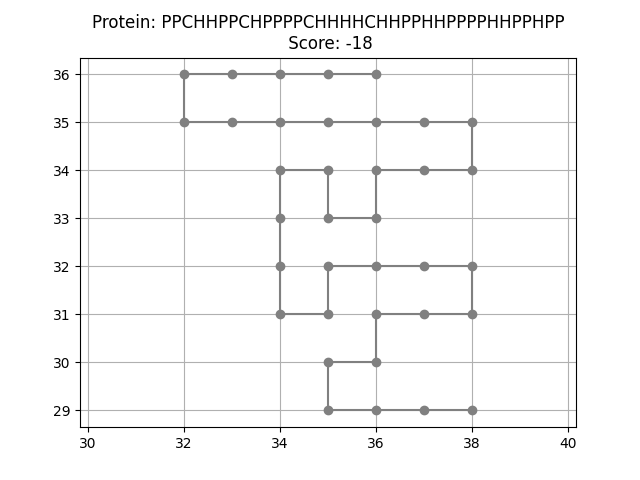
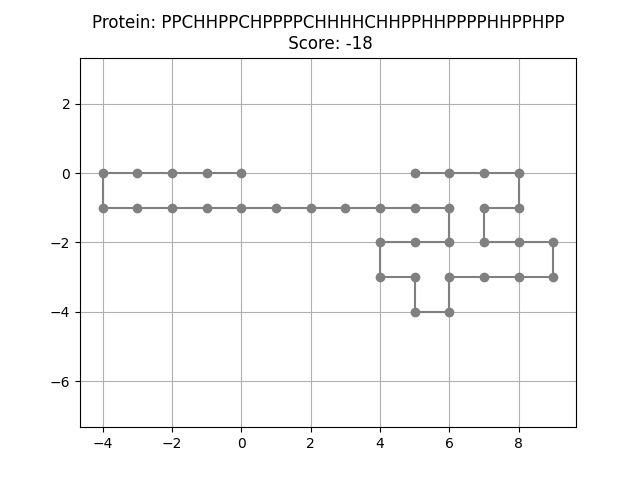
CSV

diff --git a/Final/classes_hattum/grid.py b/Final/classes_hattum/grid.py
@@ -1,4 +1,4 @@
-class Grid:
+class Grid_c:
     """
     Grid initializes the grid space where the protein will be folded in.
     Grid prints the grid as a list of lists.
@@ -38,6 +38,13 @@ class Grid:
                 if self.content[x][y][1] == self.content[x][y+1][1] == 'H':
                     if self.content[x][y][0] != self.content[x][y+1][0]+1 and self.content[x][y][0] != self.content[x][y+1][0]-1:
                         score = score-1
+                if self.content[x][y][1] == self.content[x+1][y][1] == 'C':
+                    if self.content[x][y][0] != self.content[x+1][y][0]+1 and self.content[x][y][0] != self.content[x+1][y][0]-1:
+                            score = score-5
+                if self.content[x][y][1] == self.content[x][y+1][1] == 'C':
+                    if self.content[x][y][0] != self.content[x][y+1][0]+1 and self.content[x][y][0] != self.content[x][y+1][0]-1:
+                        score = score-5
+
         return score
 
     def checkPossibleMoves(self):

diff --git a/Final/main.py b/Final/main.py
@@ -26,14 +26,14 @@ if __name__ == "__main__":
     protein = protein.Protein(amino_string)
 
     # choose to use grid.py or grid_c.py
-    #grid = grid.Grid(protein.length)
-    grid = grid_c.Grid_c(protein.length)
+    grid = grid.Grid(protein.length)
+    
 
     
     algo = greedy_lookahead.Greedy_lookahead(protein, grid, steps)
     print(algo.allMoves)
 
     # plots the folded protein in a grid
-    visualisation = Visualisation_X(amino_string, grid.score(), algo.allMoves)
+    visualisation = Visualisation(amino_string, grid.score(), algo.allMoves)
     visualisation.plot()
     visualisation.csv()
